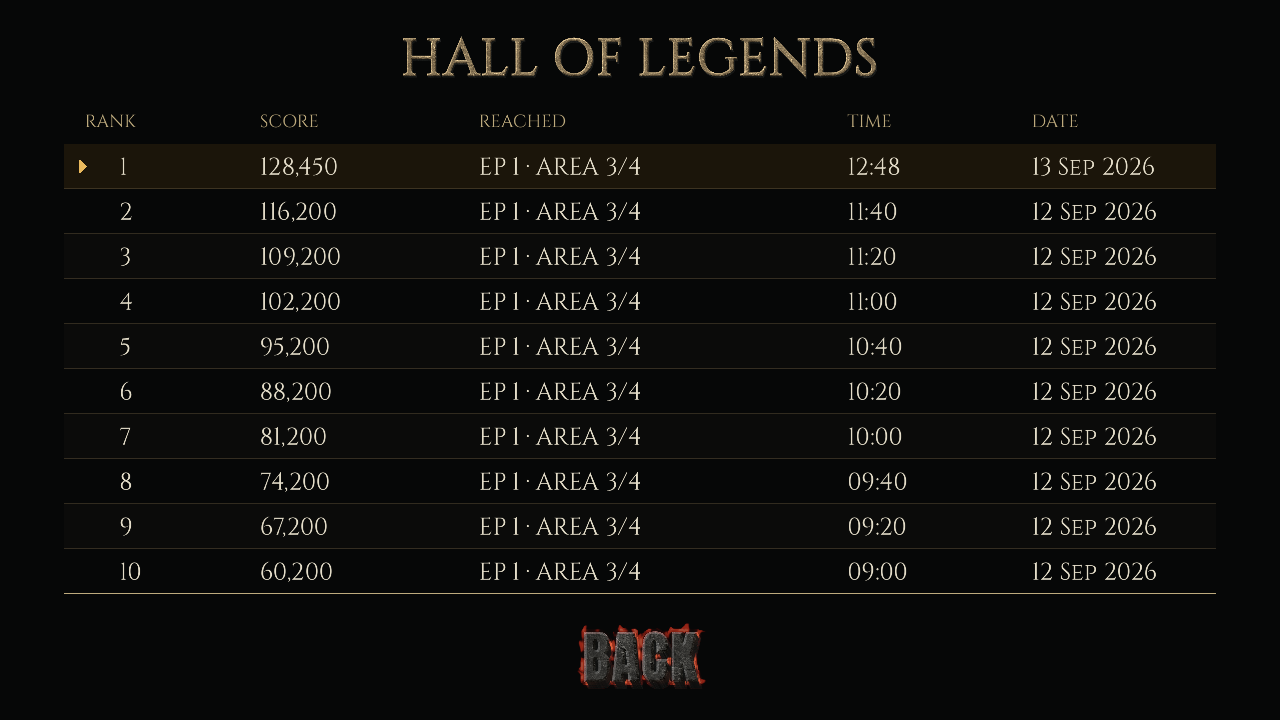
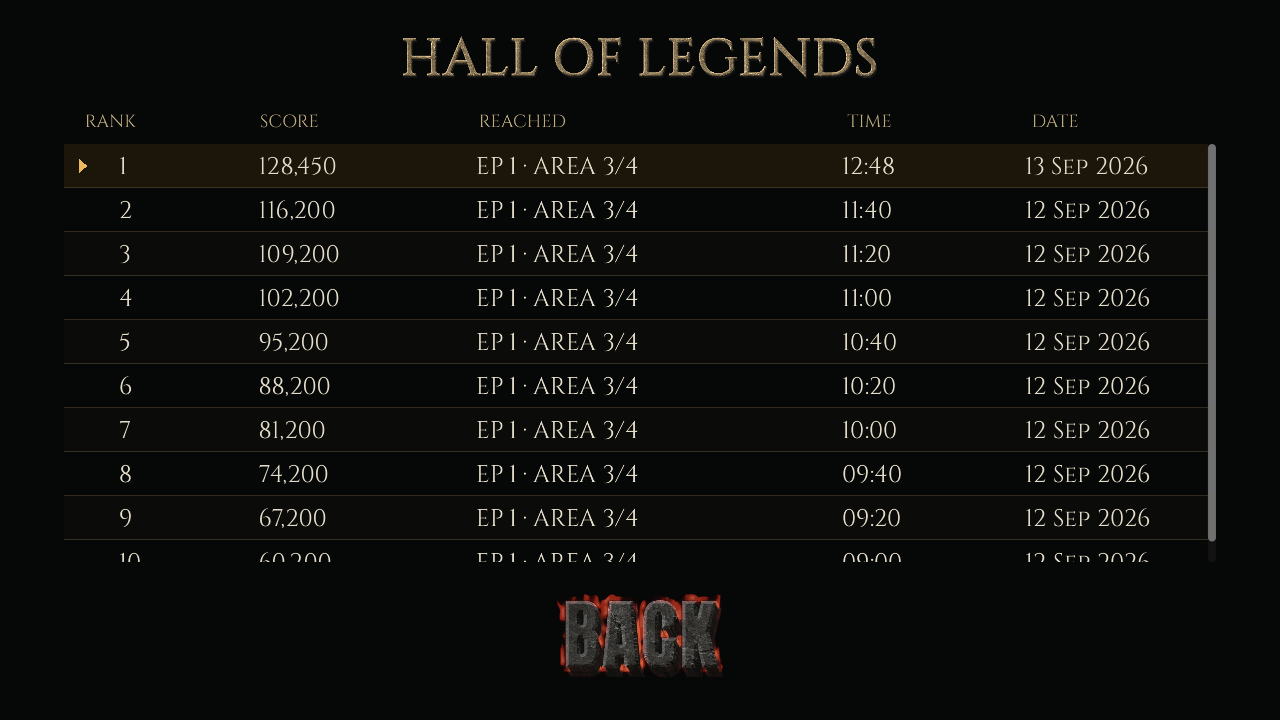
Scope records by episode and refine results navigation

diff --git a/studies/post-game/IMPLEMENTATION.md b/studies/post-game/IMPLEMENTATION.md
@@ -1,5 +1,7 @@
 # Results and Hall of Legends implementation
 
+Latest navigation/records refinement: Rise Again is first and initially selected; returning from Hall focuses its second menu item. Hall Back uses the title menu's full 1.0 lettering scale and reserves space below the scrolling list. Results show a single personal-best comparison with a signed parenthesized difference, including +0 for first/tied scores. Rankings and all personal stat bests are scoped by episode; episode 1 retains `citadel-v1` to preserve existing saves, while additional episodes use their own versioned keys. Only episode 1 is currently playable. Regression tests verify independent episode baselines and persistence.
+
 Latest refinement removes the defeat headline and uses its space for a 470px-high panel beginning 28px from the top of the 16:9 composition. Subtle horizontal stat-row rules are restored. Small stone labels use a thicker glyph mask before the existing material/bevel pass; dynamic comparison/detail copy uses a local emboldened font variation. HUD area/wave/boss labels receive the same mask treatment, with a bake-version check so cached assets are refreshed. The victory headline is retained. These choices supersede the earlier defeat-heading and divider notes below.
 
 Current presentation fits a centered 1440×810 (16:9) composition uniformly into every window; results no longer reflows into a portrait panel. The footer uses the existing compact-pause stack geometry and spacing, fitted to a larger 276px-high region. Its landing offsets still survive resizing. The heading is bright ivory, section headings warm gold, and values pale ivory/cool stone. A black overlay fades in over 0.8 seconds, with additional gradual darkening behind the menu; the blood stays visible. These choices supersede the responsive portrait and earlier footer notes below. Native tests cover uniform aspect fitting and centered stack bounds, and both exports are updated.
